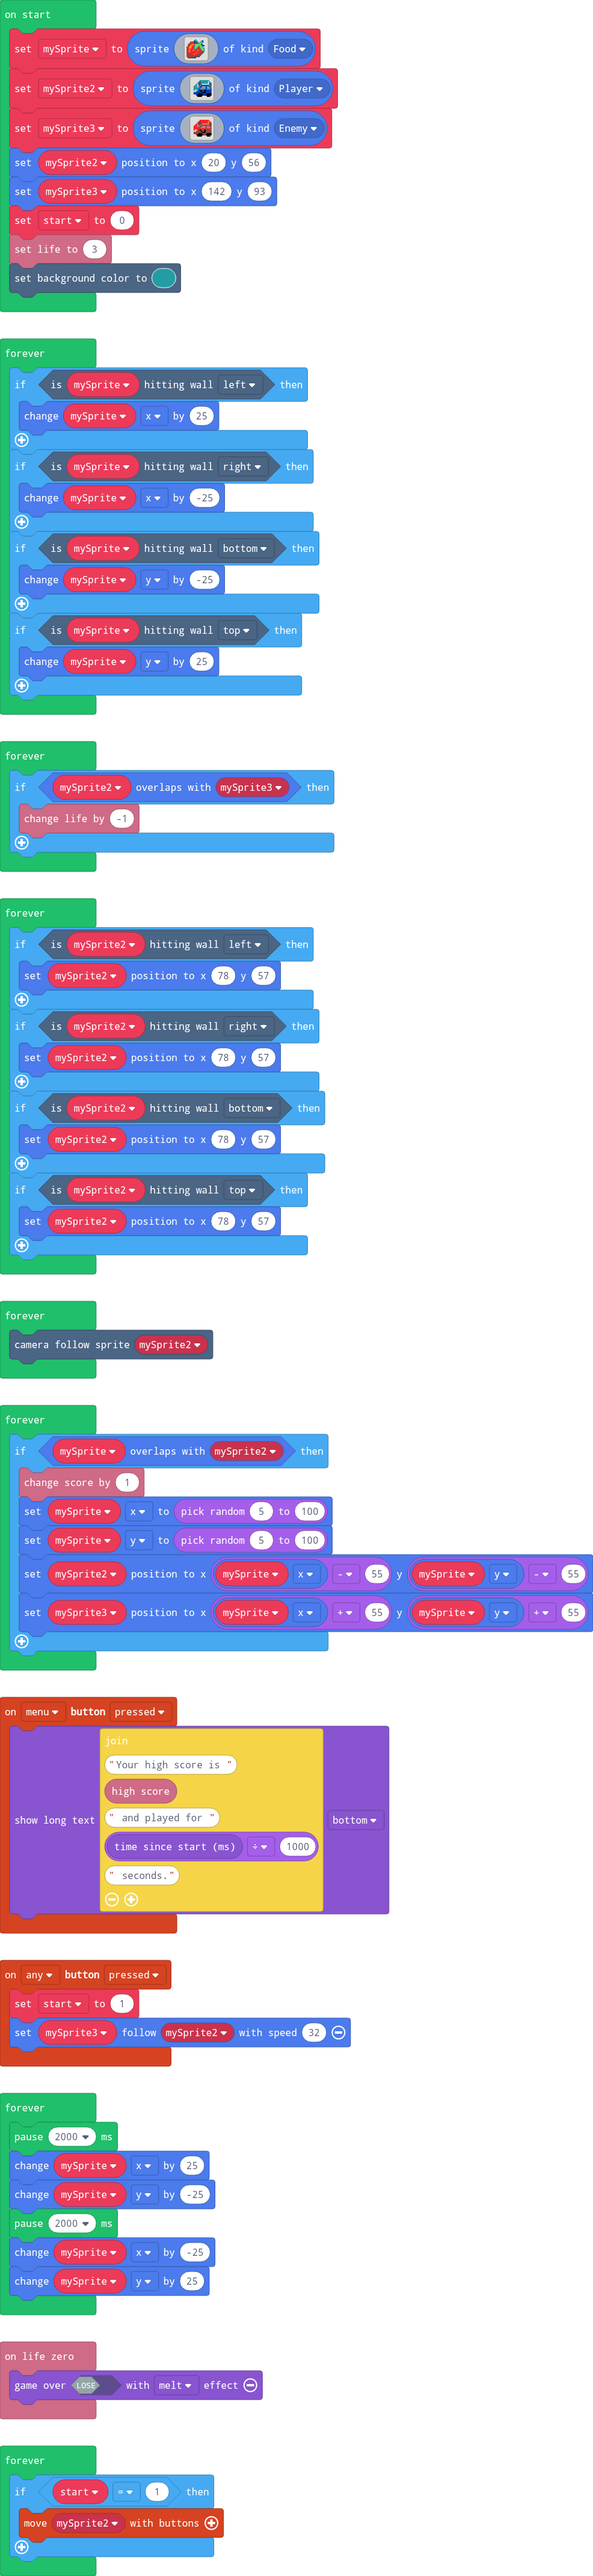
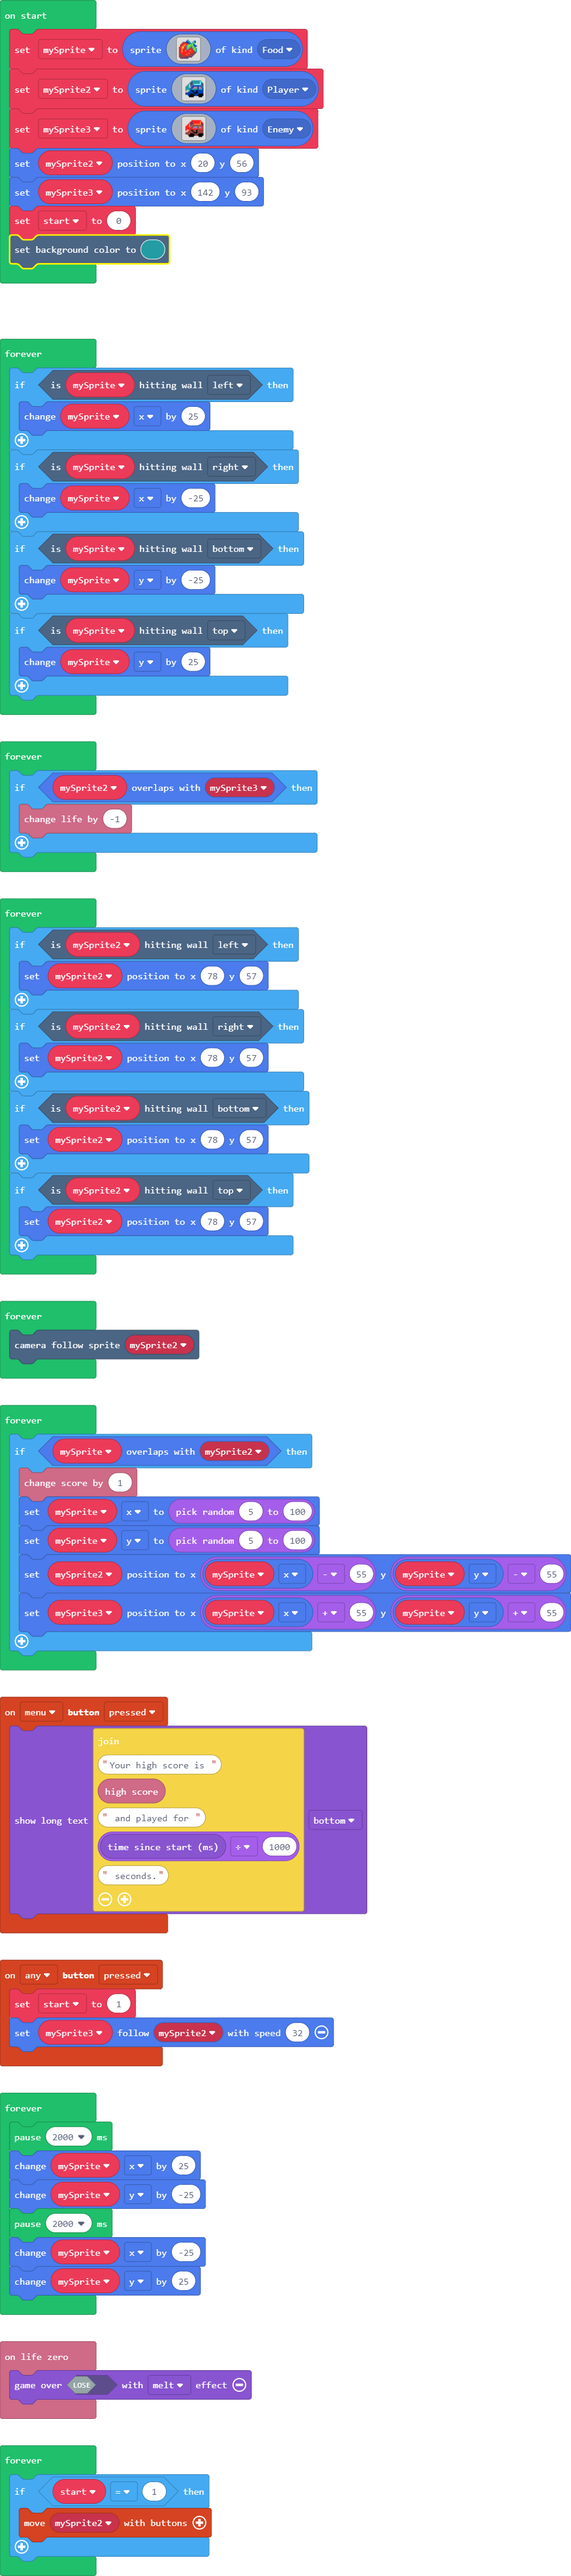
Update main.blocks, main.ts

diff --git a/main.ts b/main.ts
@@ -72,7 +72,6 @@ mySprite3 = sprites.create(img`
 mySprite2.setPosition(20, 56)
 mySprite3.setPosition(142, 93)
 start = 0
-info.setLife(3)
 scene.setBackgroundColor(6)
 forever(function () {
     if (mySprite.isHittingTile(CollisionDirection.Left)) {
